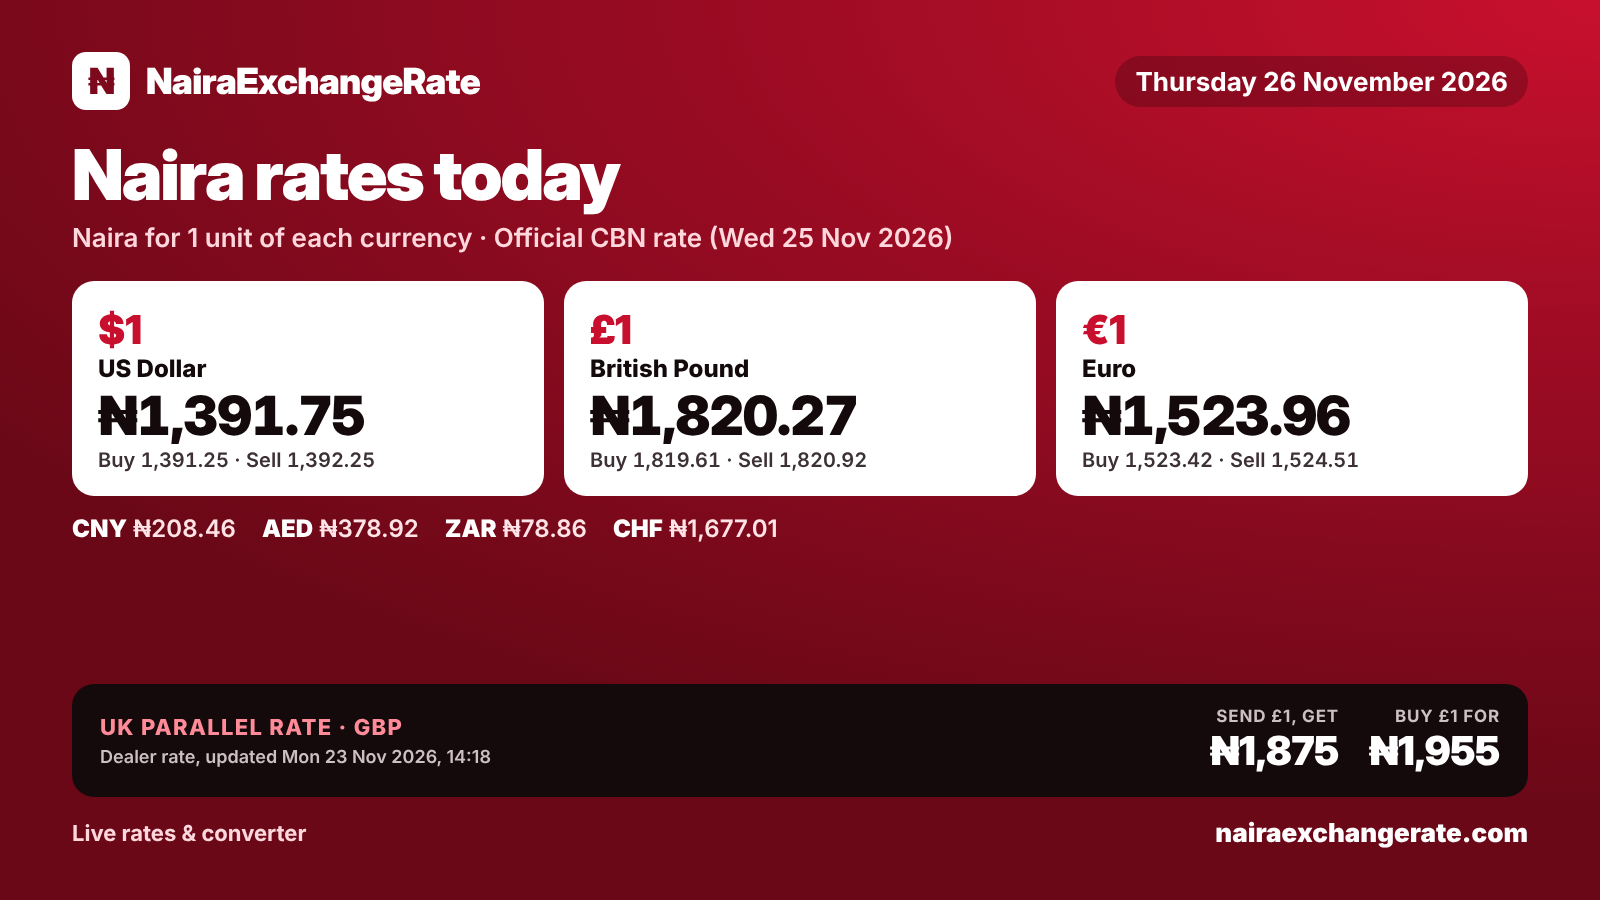
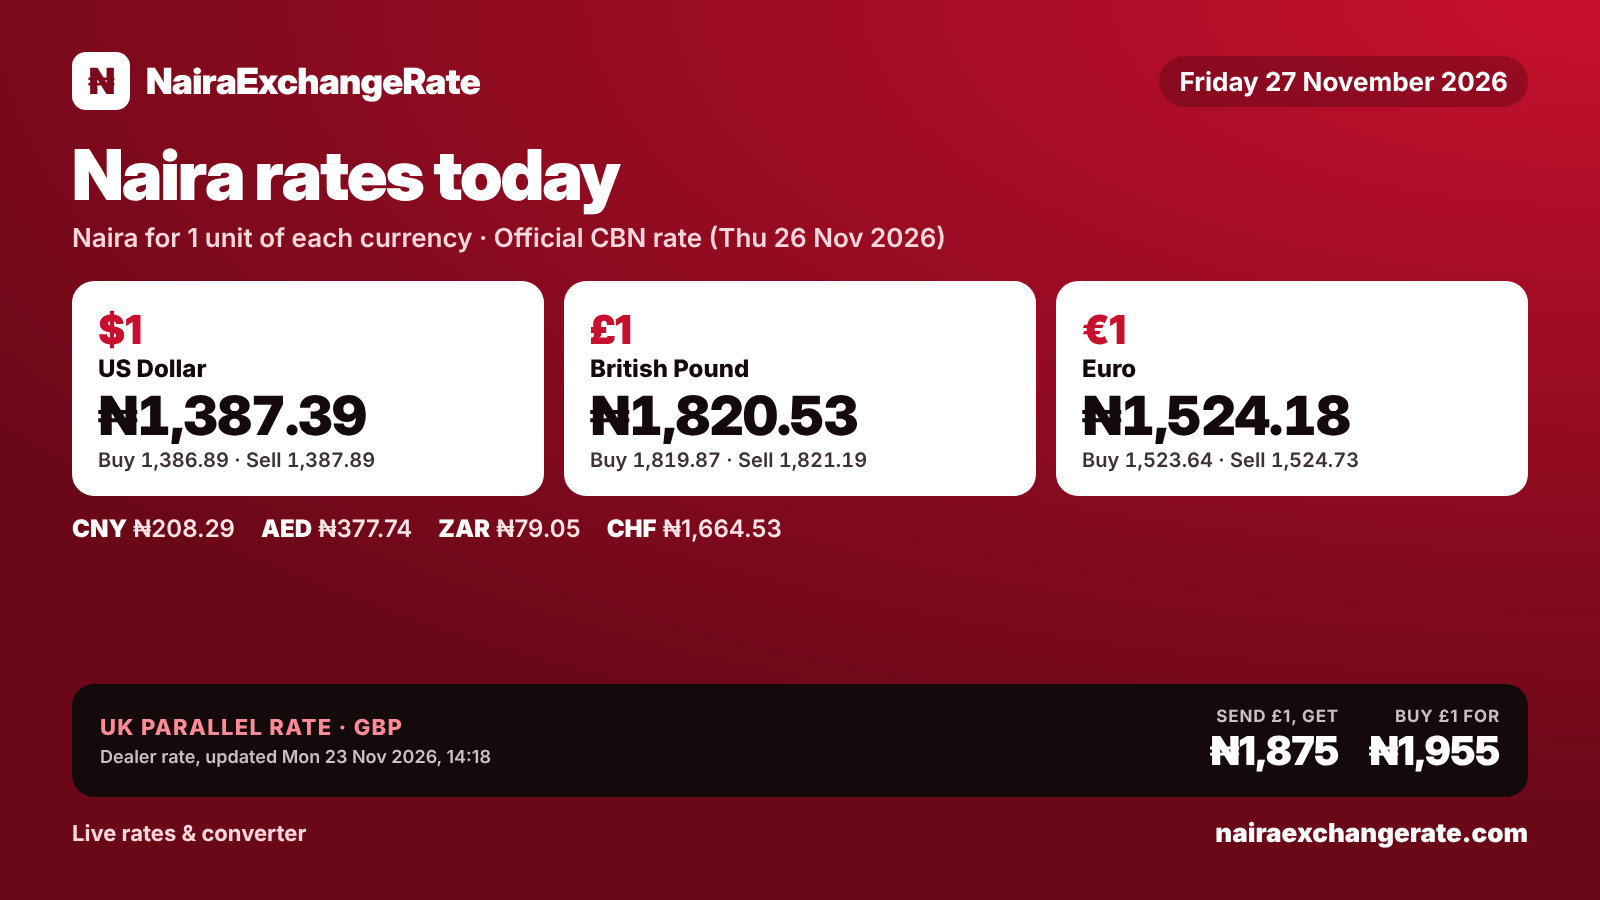
Daily update 2026-11-27
Claude-Session: https://claude.ai/code/session_01NfXuJxBRiVEAJDrCGeLtgJ

diff --git a/index.html b/index.html
@@ -359,61 +359,82 @@ footer .wrap{padding-block:22px 34px;font-size:.84rem;color:var(--muted);display
     }
   ],
   "cbn": {
-    "date": "2026-11-25",
+    "date": "2026-11-26",
     "rates": {
       "xof": {
-        "buy": 2.3092,
-        "middle": 2.3192,
-        "sell": 2.3292
+        "buy": 2.3001,
+        "middle": 2.3101,
+        "sell": 2.3201
       },
       "cny": {
-        "buy": 208.3892,
-        "middle": 208.4641,
-        "sell": 208.539
+        "buy": 208.2196,
+        "middle": 208.2947,
+        "sell": 208.3697
       },
       "eur": {
-        "buy": 1523.4167,
-        "middle": 1523.9642,
-        "sell": 1524.5117
+        "buy": 1523.6355,
+        "middle": 1524.1848,
+        "sell": 1524.7341
       },
       "jpy": {
-        "buy": 8.7346,
-        "middle": 8.7377,
-        "sell": 8.7409
+        "buy": 8.71,
+        "middle": 8.7131,
+        "sell": 8.7162
       },
       "sar": {
-        "buy": 370.8215,
-        "middle": 370.9548,
-        "sell": 371.088
-      },
-      "chf": {
-        "buy": 1676.4045,
-        "middle": 1677.007,
-        "sell": 1677.6095
-      },
-      "gbp": {
-        "buy": 1819.6134,
-        "middle": 1820.2673,
-        "sell": 1820.9213
-      },
-      "usd": {
-        "buy": 1391.2481,
-        "middle": 1391.7481,
-        "sell": 1392.2481
-      },
-      "aed": {
-        "buy": 378.7874,
-        "middle": 378.9235,
-        "sell": 379.0596
+        "buy": 369.7186,
+        "middle": 369.8519,
+        "sell": 369.9852
       },
       "zar": {
-        "buy": 78.8341,
-        "middle": 78.8624,
-        "sell": 78.8907
+        "buy": 79.0245,
+        "middle": 79.053,
+        "sell": 79.0815
+      },
+      "chf": {
+        "buy": 1663.9332,
+        "middle": 1664.5331,
+        "sell": 1665.1329
+      },
+      "gbp": {
+        "buy": 1819.8748,
+        "middle": 1820.5309,
+        "sell": 1821.187
+      },
+      "usd": {
+        "buy": 1386.8883,
+        "middle": 1387.3883,
+        "sell": 1387.8883
+      },
+      "aed": {
+        "buy": 377.6003,
+        "middle": 377.7365,
+        "sell": 377.8726
       }
     }
   },
   "news": [
+    {
+      "source": "Legit.ng",
+      "title": "Dangote Refinery Slashes Diesel Price by N125 Per Litre, Dealers to Sell at New Rates",
+      "summary": "Dangote cut its diesel gantry price from N1,720 to N1,595 per litre, effective 26 November.",
+      "url": "https://legit.ng/business-economy/energy/1743474-dangote-refinery-slashes-diesel-price-by-n125-litre-dealers-sell-rates",
+      "date": "2026-11-26"
+    },
+    {
+      "source": "P.M. News",
+      "title": "CBN moves to rescue naira after dollar exchange rate crosses N1,400",
+      "summary": "The CBN reportedly injected about $1.3bn in a week after the naira slid towards N1,400/$ on the official market.",
+      "url": "https://pmnewsnigeria.com/2026/11/26/cbn-moves-to-rescue-naira-after-dollar-exchange-rate-crosses-n1400/",
+      "date": "2026-11-26"
+    },
+    {
+      "source": "Daily Trust",
+      "title": "NGX loses N1.1tn as banking, telecom stocks decline",
+      "summary": "Nigerian stocks shed N1.098tn in value as the All-Share Index fell 0.69% to 243,995.29 points.",
+      "url": "https://dailytrust.com/ngx-loses-n1-1tn-as-banking-telecom-stocks-decline/",
+      "date": "2026-11-26"
+    },
     {
       "source": "BusinessDay",
       "title": "Naira seen strengthening to N1,360 as CBN lifts parallel dollar market supply",
@@ -434,27 +455,6 @@ footer .wrap{padding-block:22px 34px;font-size:.84rem;color:var(--muted);display
       "summary": "New CBN rules effective November 5 require foreign-currency stablecoin issuers serving Nigerians to hold reserves with local banks and use a licensed bank as redemption agent.",
       "url": "https://businessday.ng/technology/article/nigerias-banks-drawn-deeper-into-stablecoin-rails-as-cross-border-payments-shift",
       "date": "2026-11-25"
-    },
-    {
-      "source": "Premium Times",
-      "title": "Anambra governor presents N893.4bn 2027 budget",
-      "summary": "Governor Soludo tabled a N893.44bn 2027 budget for Anambra, 16.58% higher than this year's estimate.",
-      "url": "https://premiumtimesng.com/news/top-news/927857-anambra-governor-presents-n893-4bn-2027-budget.html",
-      "date": "2026-11-25"
-    },
-    {
-      "source": "Premium Times",
-      "title": "CBN dismisses concerns over decline in foreign reserves",
-      "summary": "The CBN Governor called the roughly $300m dip in gross reserves, now about $54.02bn, very modest.",
-      "url": "https://premiumtimesng.com/business/business-news/927757-cbn-dismisses-concerns-over-decline-in-foreign-reserves.html",
-      "date": "2026-11-24"
-    },
-    {
-      "source": "P.M. News",
-      "title": "CBN keeps interest rate at 23% as MPC maintains tight monetary stance",
-      "summary": "The MPC held the policy rate at 23% and left the 45% cash reserve ratio for banks unchanged.",
-      "url": "https://pmnewsnigeria.com/2026/11/24/cbn-keeps-interest-rate-at-23-as-mpc-maintains-tight-monetary-stance/",
-      "date": "2026-11-24"
     }
   ],
   "whatsappChannel": "https://whatsapp.com/channel/0029VbEJwXxCnA7nV3kcN73I",
@@ -674,6 +674,18 @@ footer .wrap{padding-block:22px 34px;font-size:.84rem;color:var(--muted);display
       "usd": 1391.7481,
       "aed": 378.9235,
       "zar": 78.8624
+    },
+    "2026-11-26": {
+      "xof": 2.3101,
+      "cny": 208.2947,
+      "eur": 1524.1848,
+      "jpy": 8.7131,
+      "sar": 369.8519,
+      "zar": 79.053,
+      "chf": 1664.5331,
+      "gbp": 1820.5309,
+      "usd": 1387.3883,
+      "aed": 377.7365
     }
   }
 }
